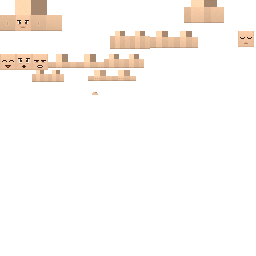
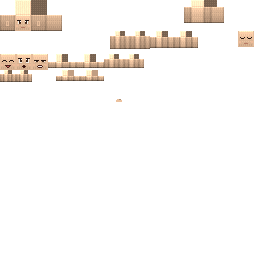
Give hair a ragged outline and cycle the camera to the front
Hair gains small tufts over the top, back, sides and brow that stand out
of the head's outline, and every skin face is shaded in stepped,
dithered tones: a lit top and edge, darkening down to a shadowed foot.
The adventurer's palette moves closer to the character sheet.

F5 now cycles between first person, third person from behind and third
person from the front, looking back at the character's face.

diff --git a/crates/client/src/camera.rs b/crates/client/src/camera.rs
@@ -1,10 +1,10 @@
-//! The player's view: mouse look, and first- or third-person framing of the
-//! local character.
+//! The player's view: mouse look, and framing of the local character from
+//! its eyes, from behind or from the front.
 //!
 //! Clicking the window captures the cursor for mouse look; Escape releases it.
-//! F5 switches perspective. The camera is also where the player hears from.
+//! F5 cycles through the perspectives. The camera is also where the player hears from.
 
-use std::f32::consts::FRAC_PI_2;
+use std::f32::consts::{FRAC_PI_2, PI};
 
 use bevy::{
     audio::SpatialListener,
@@ -79,11 +79,25 @@ pub(crate) struct View {
     pub captured: bool,
 }
 
+/// Where the view is from: the character's eyes, or behind or ahead of the
+/// character, looking at it.
 #[derive(Debug, Default, Clone, Copy, PartialEq, Eq)]
 pub(crate) enum Perspective {
     #[default]
     FirstPerson,
-    ThirdPerson,
+    Behind,
+    Front,
+}
+
+impl Perspective {
+    /// The next one, as the key cycles through them.
+    fn next(self) -> Self {
+        match self {
+            Self::FirstPerson => Self::Behind,
+            Self::Behind => Self::Front,
+            Self::Front => Self::FirstPerson,
+        }
+    }
 }
 
 impl View {
@@ -152,10 +166,7 @@ fn look(
 
 fn toggle_perspective(keys: Res<ButtonInput<KeyCode>>, mut view: ResMut<View>) {
     if keys.just_pressed(PERSPECTIVE_TOGGLE) {
-        view.perspective = match view.perspective {
-            Perspective::FirstPerson => Perspective::ThirdPerson,
-            Perspective::ThirdPerson => Perspective::FirstPerson,
-        };
+        view.perspective = view.perspective.next();
     }
 }
 
@@ -169,11 +180,18 @@ fn follow_player(
     };
     let eye = player.translation + Vec3::Y * EYE_HEIGHT;
     let rotation = view.rotation();
-    camera.rotation = rotation;
-    camera.translation = match view.perspective {
-        Perspective::FirstPerson => eye,
-        Perspective::ThirdPerson => eye + rotation * Vec3::Z * THIRD_PERSON_DISTANCE,
+    let (facing, place) = match view.perspective {
+        Perspective::FirstPerson => (rotation, eye),
+        Perspective::Behind => (rotation, eye + rotation * Vec3::Z * THIRD_PERSON_DISTANCE),
+        Perspective::Front => {
+            // Turned around, ahead of the character and looking back at it;
+            // the mouse still turns the character.
+            let facing = Quat::from_euler(EulerRot::YXZ, view.yaw + PI, -view.pitch, 0.0);
+            (facing, eye + facing * Vec3::Z * THIRD_PERSON_DISTANCE)
+        }
     };
+    camera.rotation = facing;
+    camera.translation = place;
 }
 
 /// Hides the local character's body in first person, where it would block the view.
@@ -184,7 +202,7 @@ fn show_own_avatar(
     if let Ok(mut visibility) = player.single_mut() {
         visibility.set_if_neq(match view.perspective {
             Perspective::FirstPerson => Visibility::Hidden,
-            Perspective::ThirdPerson => Visibility::Inherited,
+            Perspective::Behind | Perspective::Front => Visibility::Inherited,
         });
     }
 }

diff --git a/README.md b/README.md
@@ -76,13 +76,13 @@ packets from the server, for testing under latency.
 
 Controls: click the window to capture the mouse, `W` `A` `S` `D` to move,
 `Shift` to sprint, `Space` to jump, `1` to `0` or the mouse wheel to pick the
-held item, left and right mouse buttons to use it, `F` to harvest a ripe
-crop, pick berries, open a chest, go to bed (from 18:00) or get up, or at a
-stall open its shop, `E` to open the backpack (click a stack to pick it up
-and a slot to put it down, and give money to other players beside it), `F5`
-to switch between first and third person, `Esc` for the game menu (options,
-and saving and quitting). What the crosshair is on is named under it, and
-the game says why when an action does nothing.
+held item, left and right mouse buttons to use it, `F` to harvest a ripe crop,
+pick berries, open a chest, go to bed (from 18:00) or get up, or at a stall
+open its shop, `E` to open the backpack (click a stack to pick it up and a
+slot to put it down, and give money to other players beside it), `F5` to cycle
+between first person, third person from behind and from the front, `Esc` for
+the game menu (options, and saving and quitting). What the crosshair is on is
+named under it, and the game says why when an action does nothing.
 
 Every newcomer is given a cabin deed: used on open ground, aimed where the
 door should be, it builds their cabin, with a bed and a chest inside. The

diff --git a/docs/adr/0012-characters-village-and-icons.md b/docs/adr/0012-characters-village-and-icons.md
@@ -29,8 +29,8 @@ models used everywhere else, including models that later packs add.
   over a third of the height, a torso a fifth of it wide, slim arms and
   long legs. Clients build the meshes
   from that data. The figure has boxes for everything any outfit or
-  hairstyle may need (a hood, a pouch, sleeves, boot cuffs, curls, a bun, a
-  beard); each layer paints the ones it uses and leaves the rest clear.
+  hairstyle may need (a hood, a pouch, sleeves, boot cuffs, tufts of hair
+  standing out of the head's outline, a bun, a beard); each layer paints the ones it uses and leaves the rest clear.
 - The front of the head is also painted elsewhere in the skin for each
   expression: blinking, smiling, surprise and effort. A figure's face swaps
   between them by what the character does, with nothing replicated.
